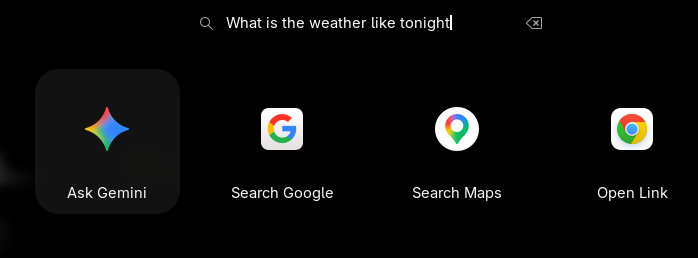
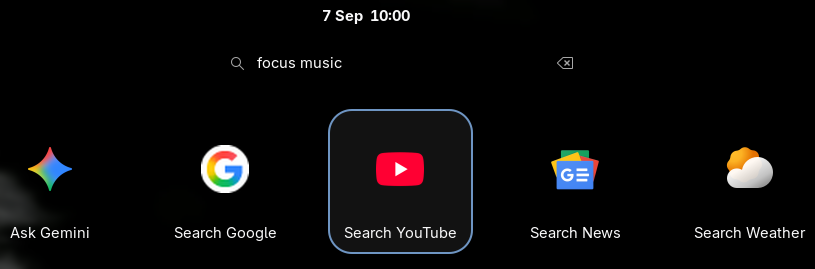
Update to Version 2
Added new search providers and changed some of the help text.

diff --git a/prefs.js b/prefs.js
@@ -21,57 +21,73 @@ export default class SwitchFocusTypePreferences extends ExtensionPreferences {
 
         const group = new Adw.PreferencesGroup({
             title: 'Shell Search',
-            description: 'Configure which Google capabilities you want.',
+            description: 'The provider will only populate the first 6 options that are enabled.',
         });
         page.add(group);
 
         // Create a new preferences row
         const rowGemini = new Adw.SwitchRow({
             title: 'Show Gemini',
-            subtitle: 'Show Ask Gemini Icon on the search screen',
+            subtitle: 'Show Ask Gemini, e.g. How to make a curry?',
         });
         // Update this to pass it
         group.add(rowGemini);
 
         const rowSearch = new Adw.SwitchRow({
             title: 'Show Search',
-            subtitle: 'Show Search Google Icon on the search screen',
+            subtitle: 'Show Google Search, e.g. Reddit Best Linux Repo',
         });
         group.add(rowSearch);
 
         const rowYouTube = new Adw.SwitchRow({
             title: 'Show YouTube',
-            subtitle: 'Show YouTube Icon on the search screen',
+            subtitle: 'Show Search YouTube, e.g. Focus Music',
         });
         group.add(rowYouTube);
 
         const rowMaps = new Adw.SwitchRow({
             title: 'Show Maps',
-            subtitle: 'Show Maps Icon on the search screen',
+            subtitle: 'Show Search Maps, eg. Directions to "location"',
         });
         group.add(rowMaps);
 
         const rowNews = new Adw.SwitchRow({
             title: 'Show News',
-            subtitle: 'Show News Icon on the search screen',
+            subtitle: 'Show Search News, e.g. Local or "topic"',
         });
         group.add(rowNews);
 
+        const rowTranslate = new Adw.SwitchRow({
+            title: 'Show Translate',
+            subtitle: 'Show Translate, e.g. Hello, there stranger',
+        });
+        group.add(rowTranslate);
+
+        const rowWeather = new Adw.SwitchRow({
+            title: 'Show Weather',
+            subtitle: 'Show Weather, e.g. Local or "town"',
+        });
+      group.add(rowWeather);
+
+        const rowLink = new Adw.SwitchRow({
+            title: 'Show Link',
+            subtitle: 'Show Open Link, e.g Localhost:8000',
+        });
+        group.add(rowLink);
+
         const infoBox = new Adw.PreferencesGroup({
             title: 'Usage Notes',
-            description: 'When searching you get the option to:' +
-              '\n- Open a link in this format eg. www.google.com' +
-              '\n- Ask Gemini eg. Why is fuel so expensive?' +
-              '\n- Search Maps eg. Directions to closest fuel station' +
-              '\n ' +
-              '\n Hint: After enabling this, disable and re-enable search'+
-              '\n providers in Gnome settings to move this one to the top.',
+            description: ' Placement of search provider is at the bottom of ' +
+                       '\n the screen by default. To move it to the top, disable' +
+                       '\n and re-enable search providers in Gnome search settings.',
 
         });
         page.add(infoBox);
 
         // Pass the settings to the window
         window._settings = this.getSettings();
+        window._settings.bind('show-link', rowLink, 'active',
+            Gio.SettingsBindFlags.DEFAULT);
         window._settings.bind('show-gemini', rowGemini, 'active',
             Gio.SettingsBindFlags.DEFAULT);
         window._settings.bind('show-search', rowSearch, 'active',
@@ -80,7 +96,11 @@ export default class SwitchFocusTypePreferences extends ExtensionPreferences {
             Gio.SettingsBindFlags.DEFAULT);
         window._settings.bind('show-news', rowNews, 'active',
             Gio.SettingsBindFlags.DEFAULT);
+        window._settings.bind('show-translate', rowTranslate, 'active',
+            Gio.SettingsBindFlags.DEFAULT);
         window._settings.bind('show-youtube', rowYouTube, 'active',
+            Gio.SettingsBindFlags.DEFAULT);
+        window._settings.bind('show-weather', rowWeather, 'active',
             Gio.SettingsBindFlags.DEFAULT);
     }
 }

diff --git a/extension.js b/extension.js
@@ -17,9 +17,9 @@ class ChromeSearchProvider {
     constructor(extension) {
         this._extension = extension;
         this.providers = {
-            'open-link': {
+            'link': {
                 name: 'Open Link',
-                description: 'Open link in chrome',
+                description: 'Open link',
                 icon: 'chrome',
                 getQuery: function (terms) {
                   let q = terms.join(" ");
@@ -52,10 +52,26 @@ class ChromeSearchProvider {
             },
             'youtube': {
                 name: 'Search YouTube',
-                description: 'Search YouTube',
+                description: 'Search YouTube Videos',
                 icon: 'youtube',
                 getQuery: function (terms) {
                   return `https://www.youtube.com/results?search_query=${terms.join(" ")}`;
+                }
+            },
+            'translate': {
+                name: 'Search Translate',
+                description: 'Translate with Google',
+                icon: 'translate',
+                getQuery: function (terms) {
+                  return `https://translate.google.com/?text=${terms.join(" ")}`;
+                }
+            },
+            'weather': {
+                name: 'Search Weather',
+                description: 'Search weather with Google',
+                icon: 'weather',
+                getQuery: function (terms) {
+                  return `https://www.google.com/search?q=${terms.join(" ")}+weather`;
                 }
             },
             'maps': {
@@ -193,13 +209,19 @@ class ChromeSearchProvider {
         let show_search=my_prefs.get_boolean('show-search');
         let show_youtube=my_prefs.get_boolean('show-youtube');
         let show_maps=my_prefs.get_boolean('show-maps');
+        let show_translate=my_prefs.get_boolean('show-translate');
         let show_news=my_prefs.get_boolean('show-news');
+        let show_weather=my_prefs.get_boolean('show-weather');
+        let show_link = my_prefs.get_boolean('show-link');
 
       if (show_gemini) {
       identifiers.push('gemini');
       }
        if (show_search) {
       identifiers.push('search');
+      }
+      if (show_translate) {
+      identifiers.push('translate');
       }
       if (show_youtube) {
       identifiers.push('youtube');
@@ -210,9 +232,12 @@ class ChromeSearchProvider {
       if (show_news) {
       identifiers.push('news');
       }
-
-      // always show open-link
-      identifiers.push('open-link');
+      if (show_weather) {
+      identifiers.push('weather');
+      }
+      if (show_link) {
+      identifiers.push('link');
+      }
 
       return new Promise((resolve, reject) => {
         const cancelledId = cancellable.connect(

diff --git a/README.md b/README.md
@@ -2,25 +2,24 @@
 This extension adds a Chrome search provider to Gnome Search
 ![Chrome Search Providers](assets/providers.png)
 
-When searching you get the option to:
-- 'Open link' to open a link eg. "google.com" 
-- 'Search Google' to search a topic eg. "Local fuel prices"
-- 'Ask Gemini' to ask a question eg. "Why is fuel so expensive?"
-- 'Search Maps' to search a location eg. "Directions closest fuel station"
-
-Using the Gnome extension settings menu: 
-- Toggle which google capabilities are enabled.
-- Get help on how to use the search provider
-
 # Installation:
 - Download the Zip file and unzip it.
-- Rename top folder, make sure the folder name is 'SearchProvider@github.com'.
-- Copy the unzipped renamed folder to '~/.local/share/gnome-shell/extensions'.
+- Rename top folder, make sure the folder name is ' SearchProvider@github.com '.
+- Copy the unzipped renamed folder to ' ~/.local/share/gnome-shell/extensions '.
 - Logout of Gnome and Login, then go to extension and enable.
 
 # Usage Tip: 
-After enabling this, disable and re-enable search providers,
-in Gnome settings to move this one to the top.
+Placement of search provider is at the bottom of the screen by default. To move it to the top, disable and re-enable search providers in Gnome search settings.
+NOTE: The provider will only populate the first 6 options that are enabled.
+
+When searching you get the option to:
+- 'Show Ask Gemini, e.g. How to make a curry?',
+- 'Show Google Search, e.g. Reddit Best Linux Repo',
+- 'Show YouTube, e.g. Focus Music',
+- 'Show Maps, e.g. Directions to "location"',
+- 'Show News, e.g. Local or "topic"',
+- 'Show Translate, e.g. Hello, there stranger',
+- 'Show Open Link, e.g Localhost:8000',
 
 # Credits:
 This extension was created using Zed and Inkling and is open source.
